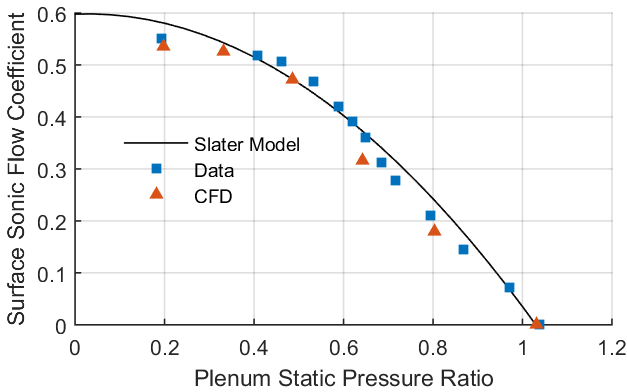
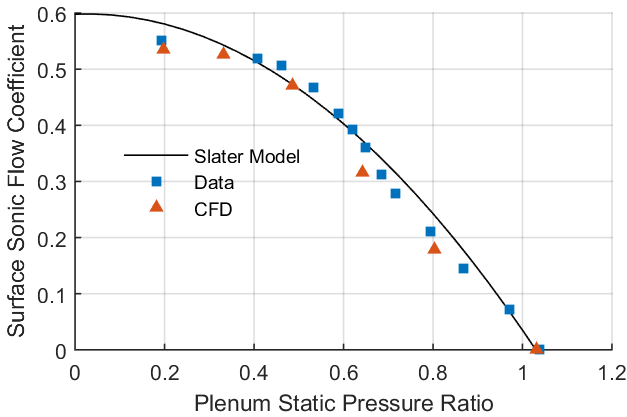
a

diff --git a/matlab/slater_single_hole_verification.m b/matlab/slater_single_hole_verification.m
@@ -61,7 +61,7 @@ xlabel('Plenum Static Pressure Ratio')
 x0=10;
 y0=10;
 width=300;
-height=250*3/4;
+height=200;
 set(gcf,'units','points','position',[x0,y0,width,height])
 
 % expand axis to fill figure
